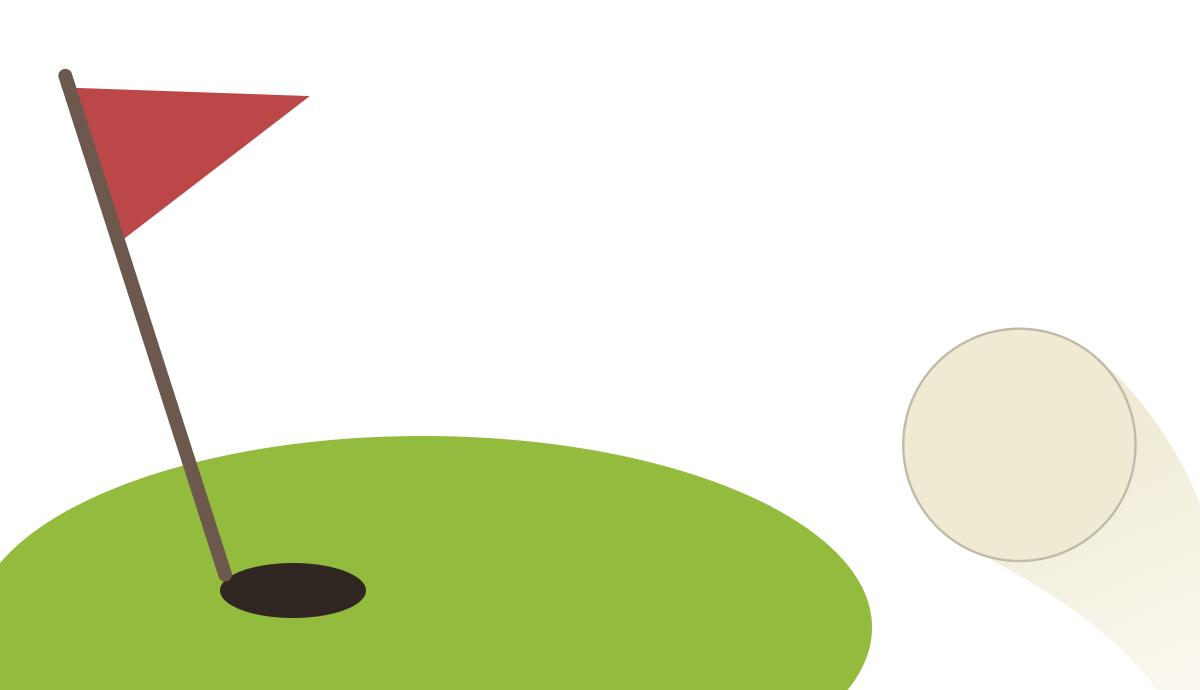
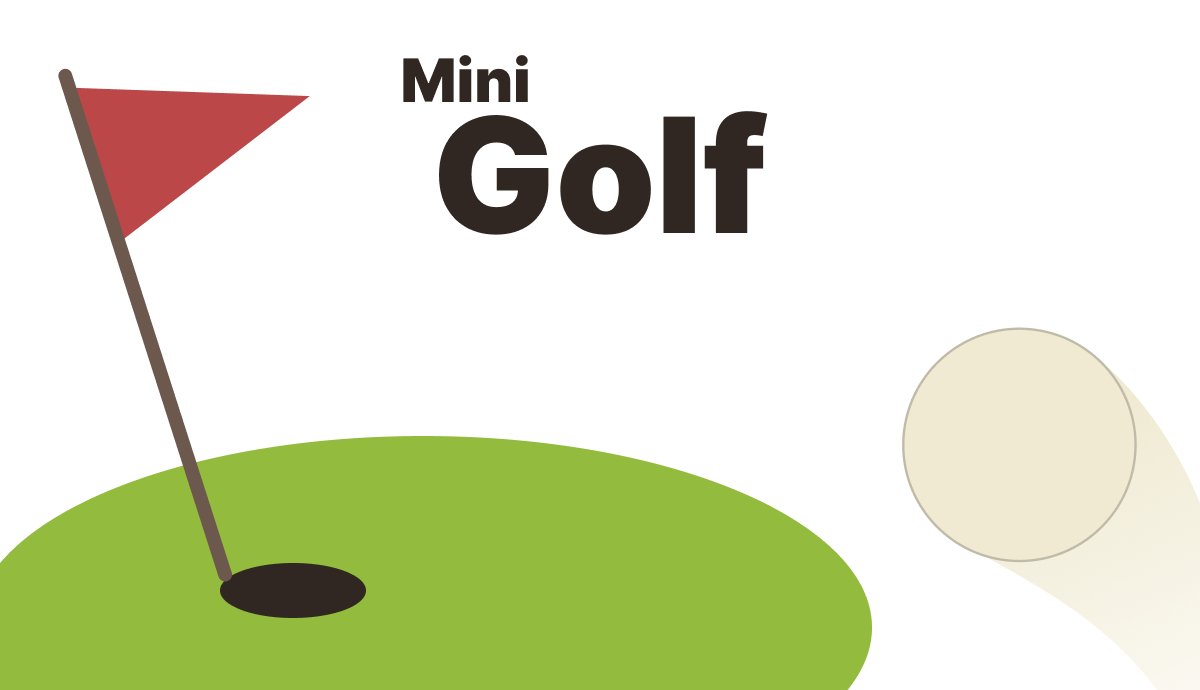
add background image

Changed region(s): [[0.3083, 0.0609, 0.6475, 0.3652]]

diff --git a/src/Game.cpp b/src/Game.cpp
@@ -7,12 +7,18 @@
 #include "Board.h"
 extern float W_WIDTH;
 extern float W_HEIGHT;
+extern int GAME_STATE;
 
 // Constructor and destructor
 Game::Game()
 {
     initVariables();
     initWindow();
+
+    this->bgImageTexture.loadFromFile("assets/v2/background.png");
+
+    this->backgroundSprite.setTexture(this->bgImageTexture);
+    this->backgroundSprite.setPosition(sf::Vector2f(0, W_HEIGHT - this->backgroundSprite.getGlobalBounds().height));
 }
 
 Game::~Game()
@@ -73,12 +79,21 @@ void Game::update()
 
 void Game::render()
 {
-    // Clear the window with black color
-    this->window->clear();
+    // Clear the window with green color
+    this->window->clear(sf::Color(168, 202, 89, 255));
 
-    // Render stuff
-    this->board.draw(this->window);
-    this->ball.draw(this->window);
+    switch (GAME_STATE)
+    {
+    case 0: // Show home screen
+        this->window->draw(this->backgroundSprite);
+        break;
+
+    case 1: // Show game screen with obard
+        // Render stuff
+        this->board.draw(this->window);
+        this->ball.draw(this->window);
+        break;
+    }
 
     // Display everything that has been drawn
     this->window->display();

diff --git a/include/Game.h b/include/Game.h
@@ -20,12 +20,17 @@ class Game
 {
 private:
     // Variables
+    int STATE;
     sf::RenderWindow *window; // Pointer to a window object
     sf::VideoMode videoMode;  // Video mode object, holds width and height of the window
     std::string title;        // Title of the window
     // Variable for holding sfml events
     sf::Event event;
 
+    // Textures
+    sf::Texture bgImageTexture;
+    // Sprites
+    sf::Sprite backgroundSprite;
     // Other objects
     Board board;
     Ball ball;

diff --git a/src/main.cpp b/src/main.cpp
@@ -10,6 +10,11 @@
 // Consts
 float W_WIDTH = 1200;
 float W_HEIGHT = 700;
+/**
+ * 0 - home screan
+ * 1 - playing
+ */
+int GAME_STATE = 0;
 
 /**
  * Main entry point of the application
